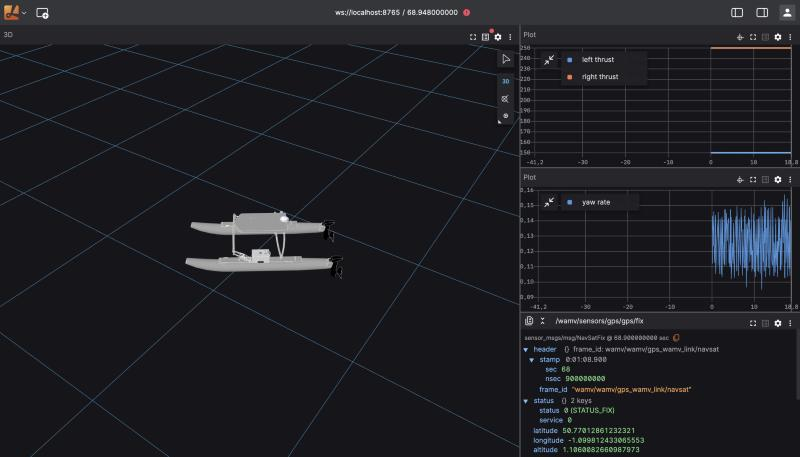
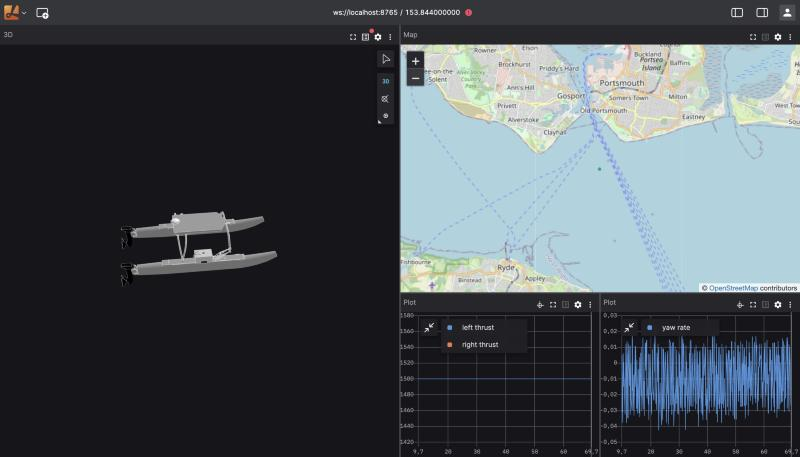
Show the boat's GNSS position on an OpenStreetMap map in the Lichtblick layout

diff --git a/README.md b/README.md
@@ -60,14 +60,14 @@ The smoke test ([`scripts/smoke_test.py`](scripts/smoke_test.py)) applies 400 N 
 | R1.4 Turn | Yaw rate towards the weaker thruster | Pass: +28.2 °/s, drifting only 0.7 m |
 | R1.5 Visualisation | Pose visible in Lichtblick | Pass, checked by eye |
 
-To watch the boat, I run the simulation with `foxglove_bridge` and the Lichtblick web viewer with my layout (3D view following the boat, thrust, yaw rate and GNSS fix), then open the URL that `run_viewer.sh` prints:
+To watch the boat, I run the simulation with `foxglove_bridge` and the Lichtblick web viewer with my layout, then open the URL that `run_viewer.sh` prints. The layout has a 3D view following the boat, thrust and yaw rate plots, and a map panel that puts the GNSS position on an OpenStreetMap map of the Solent: the simulated world is georeferenced, so the boat appears off Portsmouth.
 ```bash
 scripts/run_sim_viz.sh        # terminal 1
 scripts/run_viewer.sh         # terminal 2
 ```
 The 3D view draws the WAM-V from its URDF on `/wamv/robot_description`; `foxglove_bridge` serves the hull meshes to the browser from their `package://` paths.
 
-![The WAM-V turning in Lichtblick, with thrust, yaw rate and GNSS fix](docs/img/milestone1_lichtblick.jpg)
+![The WAM-V in Lichtblick: 3D view, its GNSS position on a map of Spithead, thrust and yaw rate](docs/img/milestone1_lichtblick.jpg)
 
 ## The physics behind the navigation
 How the boat will hold a track across a tidal stream, which is what milestones 2 and 5 implement. It is the same reasoning as working out a course to steer on a chart, written as a guidance law.
